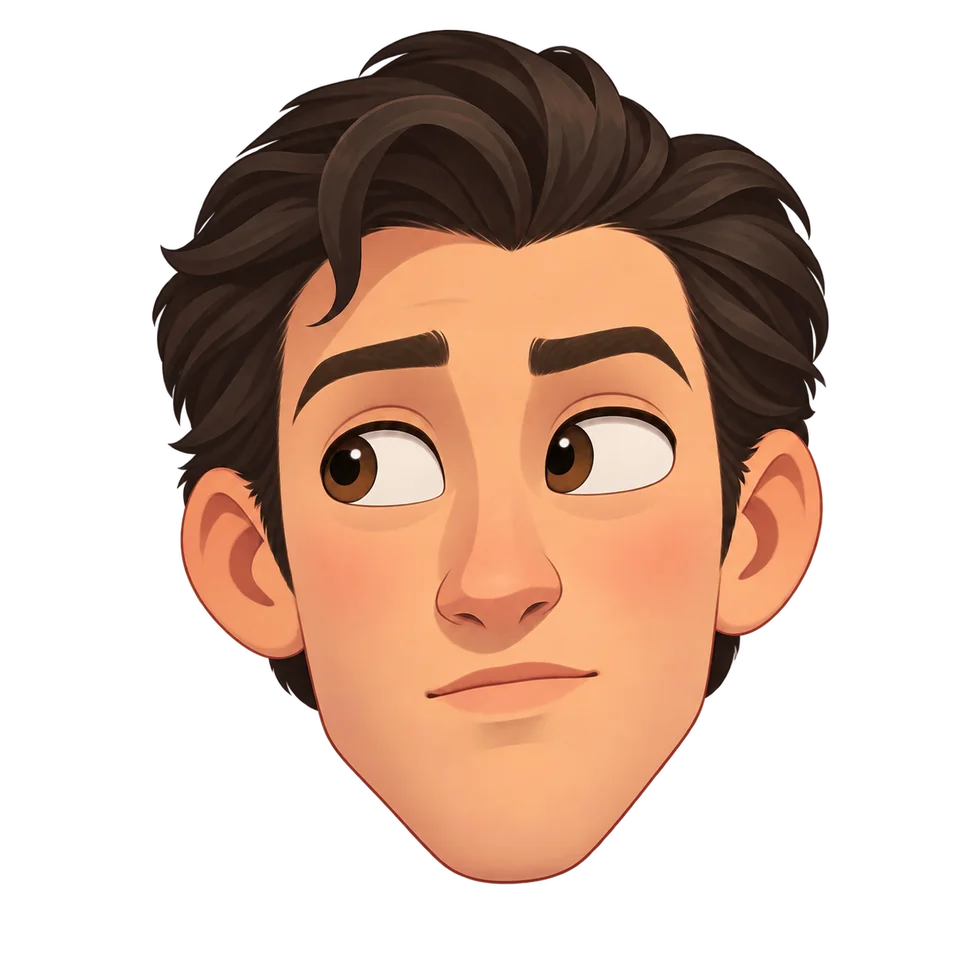
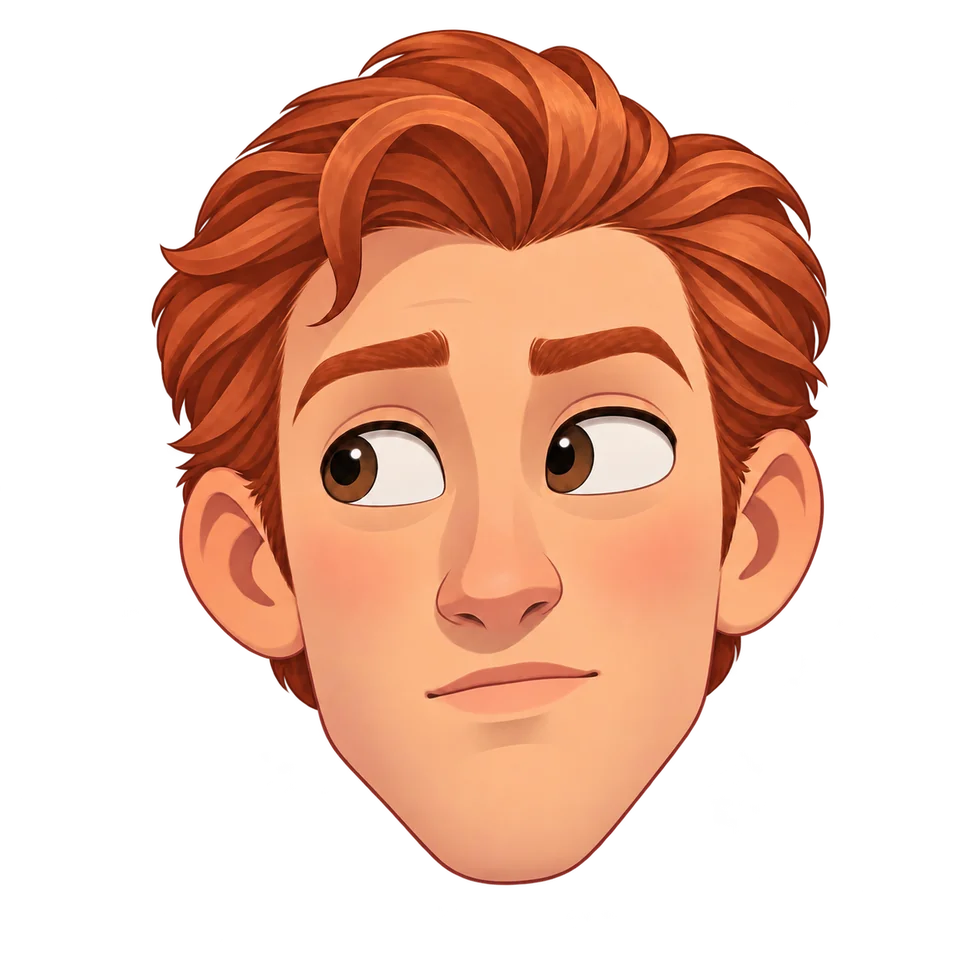
revise portraits misaligned, part 1

diff --git a/docs/query-whom/js/session.js b/docs/query-whom/js/session.js
@@ -3,7 +3,7 @@ import { quadKey } from '../../packages/game-mechanics/src/rdf-store.js';
 import { parseRdfTextWithN3, serializeRdfDatasetWithN3 } from '../../packages/rdf-io/src/n3-adapter.js';
 import { normalizeQuad } from '../../packages/rdf-io/src/rdf-model.js';
 import { Q, TYPE, BEARER, personIri, prefixes } from './vocabulary.js';
-import { decodeGame, reconstructBoard, eligibleTargets, privateChoice, HashRandom } from './protocol.js';
+import { decodeGame, reconstructBoard, eligibleTargets, privateChoice, HashRandom, DECK_VERSION } from './protocol.js';
 
 const ACTIVE = Q('ActiveCandidateRole'), ELIMINATED = Q('EliminatedCandidateRole');
 const SESSION_PREFIX = Q('session/');
@@ -152,7 +152,7 @@ export class QueryWhomSession {
     const state = await serializeRdfDatasetWithN3(new this.N3.Store(quads), { format: 'turtle', prefixes, runtime: { N3: this.N3 } });
     const save = createSavePackage({ game: { id: 'query-whom', version: '1.0.0' }, schemaVersion: '1.0.0', state,
       transactions: this.engine.transactions.entries(), rngState: this.engine.random.getState(), uiState });
-    save.manifest.catalogHash = this.manifest.catalogHash; save.manifest.deckVersion = 1; save.manifest.protocolVersion = 1;
+    save.manifest.catalogHash = this.manifest.catalogHash; save.manifest.deckVersion = DECK_VERSION; save.manifest.protocolVersion = 1;
     return save;
   }
   static async create({ N3, baseStore, manifest, code, playerRole, choose = privateChoice }) {
@@ -164,7 +164,7 @@ export class QueryWhomSession {
   static async restore({ N3, baseStore, manifest, save }) {
     const result = validateSavePackage(save, { gameId: 'query-whom' });
     if (!result.ok) throw new Error(result.message);
-    if (save.manifest.schemaVersion !== '1.0.0' || save.manifest.gameVersion !== '1.0.0' || save.manifest.catalogHash !== manifest.catalogHash || save.manifest.deckVersion !== 1 || save.manifest.protocolVersion !== 1) throw new Error('This save needs a different game or catalog version.');
+    if (save.manifest.schemaVersion !== '1.0.0' || save.manifest.gameVersion !== '1.0.0' || save.manifest.catalogHash !== manifest.catalogHash || save.manifest.deckVersion !== DECK_VERSION || save.manifest.protocolVersion !== 1) throw new Error('This save needs a different game or catalog version.');
     if (save.transactions.length > 10000) throw new Error('Save history is too large.');
     const parsed = parseRdfTextWithN3(save.state, { format: 'turtle', runtime: { N3 } }).quads;
     if (parsed.some(q => !isSessionQuad(q) || q.graph.termType !== 'DefaultGraph')) throw new Error('Save contains non-session RDF.');

diff --git a/docs/query-whom/js/graph-loader.js b/docs/query-whom/js/graph-loader.js
@@ -1,6 +1,7 @@
 import { parseRdfTextWithN3 } from '../../packages/rdf-io/src/n3-adapter.js';
 import { CATALOG_ONTOLOGY, CCO_COMMIT, CCO_SHA256, prefixes } from './vocabulary.js';
 import { projectCatalog } from './catalog.js';
+import { DECK_VERSION } from './protocol.js';
 
 export async function sha256(bytes) {
   return [...new Uint8Array(await crypto.subtle.digest('SHA-256', bytes))].map(b => b.toString(16).padStart(2, '0')).join('');
@@ -10,7 +11,7 @@ export async function loadKnowledgeGraph(N3, base = new URL('../', import.meta.u
   const response = await fetch(manifestUrl, { cache: 'no-cache' });
   if (!response.ok) throw new Error('The character manifest could not be loaded.');
   const manifest = await response.json();
-  if (manifest.cco?.commit !== CCO_COMMIT || manifest.cco?.sha256 !== CCO_SHA256 || manifest.files?.['ontology/CommonCoreOntologiesMerged.ttl'] !== CCO_SHA256 || manifest.schemaVersion !== '1.0.0' || manifest.deckVersion !== 1 || manifest.protocolVersion !== 1) throw new Error('Unsupported knowledge graph version.');
+  if (manifest.cco?.commit !== CCO_COMMIT || manifest.cco?.sha256 !== CCO_SHA256 || manifest.files?.['ontology/CommonCoreOntologiesMerged.ttl'] !== CCO_SHA256 || manifest.schemaVersion !== '1.0.0' || manifest.deckVersion !== DECK_VERSION || manifest.protocolVersion !== 1) throw new Error('Unsupported knowledge graph version.');
   const store = new N3.Store(), resources = new Map(), visited = new Set();
   async function visit(iri) {
     const relative = manifest.imports[iri];

diff --git a/docs/query-whom/js/catalog.js b/docs/query-whom/js/catalog.js
@@ -1,4 +1,5 @@
 import { Q, TYPE, PART, BEARER, PERSON, personIri, prefixes, hairClasses, eyeClasses, ethnicityClasses, traitFields } from './vocabulary.js';
+import { DECK_VERSION } from './protocol.js';
 
 export function projectCatalog(store, manifest) {
   const objects = (s, p) => store.getQuads(s, p, null, null).map(q => q.object.value);
@@ -49,7 +50,7 @@ export function projectCatalog(store, manifest) {
       portrait: `assets/portraits/person-${String(id).padStart(2, '0')}-960.webp`,
       traits, sourcePersonLabel: one(iri, Q('sourcePersonLabel')), sourceRaceLabel: one(iri, Q('sourceRaceLabel')) });
   }
-  if (manifest && (manifest.deckVersion !== 1 || manifest.personCount !== result.length)) throw new Error('Unsupported catalog manifest.');
+  if (manifest && (manifest.deckVersion !== DECK_VERSION || manifest.personCount !== result.length)) throw new Error('Unsupported catalog manifest.');
   return result;
 }
 

diff --git a/docs/query-whom/js/vocabulary.js b/docs/query-whom/js/vocabulary.js
@@ -1,4 +1,5 @@
 import { mergeProjectPrefixes } from '../../packages/namespace-registry/src/prefix-map.js';
+import { DECK_VERSION } from './protocol.js';
 
 export const prefixes = mergeProjectPrefixes({}, {
   qw: 'https://w3id.org/ontologized-entertainment/query-whom/',
@@ -21,7 +22,7 @@ export const CCO_COMMIT = 'be13b74cccf85617739c5288f9fdac805437386c';
[1 lines of base64/hex data omitted]
 export const CCO_VERSION = 'https://www.commoncoreontologies.org/2026-08-13/CommonCoreOntologiesMerged';
 export const APP_ONTOLOGY = prefixes.qw.slice(0, -1);
-export const CATALOG_ONTOLOGY = Q('catalog/v1');
+export const CATALOG_ONTOLOGY = Q(`catalog/v${DECK_VERSION}`);
 
 export const hairClasses = {
   Blonde: 'BlondeHairColor', Black: 'BlackHairColor', Brown: 'BrownHairColor', Red: 'RedHairColor',

diff --git a/docs/query-whom/service-worker.js b/docs/query-whom/service-worker.js
@@ -1,6 +1,6 @@
 /* Cache only this game's packaged resources. Updates activate deliberately from My games. */
 const PREFIX = 'query-whom-';
-const cacheName = PREFIX + '4917273bbbf15c6293f4de81';
+const cacheName = PREFIX + 'd93a1b577bd2497119c6a5e6';
 const base = new URL('./', self.location.href);
 async function config() {
   const response = await fetch(new URL('assets/precache.json', base), { cache: 'no-cache' });

diff --git a/docs/query-whom/js/protocol.js b/docs/query-whom/js/protocol.js
@@ -1,6 +1,6 @@
 export const ALPHABET = '23456789ABCDEFGHJKLMNPQRSTUVWXYZ';
 export const PROTOCOL_VERSION = 1;
-export const DECK_VERSION = 1;
+export const DECK_VERSION = 3;
 const digest = async (bytes) => new Uint8Array(await crypto.subtle.digest('SHA-256', bytes));
 
 export function base32Encode(bytes) {

diff --git a/docs/query-whom/README.md b/docs/query-whom/README.md
@@ -39,6 +39,18 @@ No npm package is loaded by the shipped game at runtime.
 `ontology/query-whom.ttl` extends CCO and the shared Game Ontology.
 `assets/catalog-v1.ttl` imports that vocabulary and the pinned CCO merged
 ontology. Its 40 character instances are generated from the supplied CSV.
+The current deck is version 3; the existing `catalog-v1` filenames remain stable
+asset paths, while the ontology version, manifest and shared codes identify the
+revised deck. Version 2 revises six portraits, gives Noah red hair and Joshua
+brown hair, and opens Ella's eyes with a forward gaze. Joshua is Person 7;
+Person 13 is Levi and remains unchanged. Earlier deck codes/saves are rejected
+with a version message and retained locally, so players start a new table with
+the revised catalog rather than mixing different trait sets.
+Version 3 swaps Elijah's and Theodore's hair textures (Elijah straight,
+Theodore curly) and moves freckles from Joshua to Noah. All other traits are
+preserved. The swaps retain 9 straight-haired and 10 curly-haired characters,
+and 6 characters with freckles. Exact edit prompts and before/after counts
+are recorded in `portraits/portrait-revisions-v3.json`.
 `ontology/oliver-example.md` is a complete Mermaid instance graph generated
 from Oliver’s actual triples, including explicit type edges.
 
